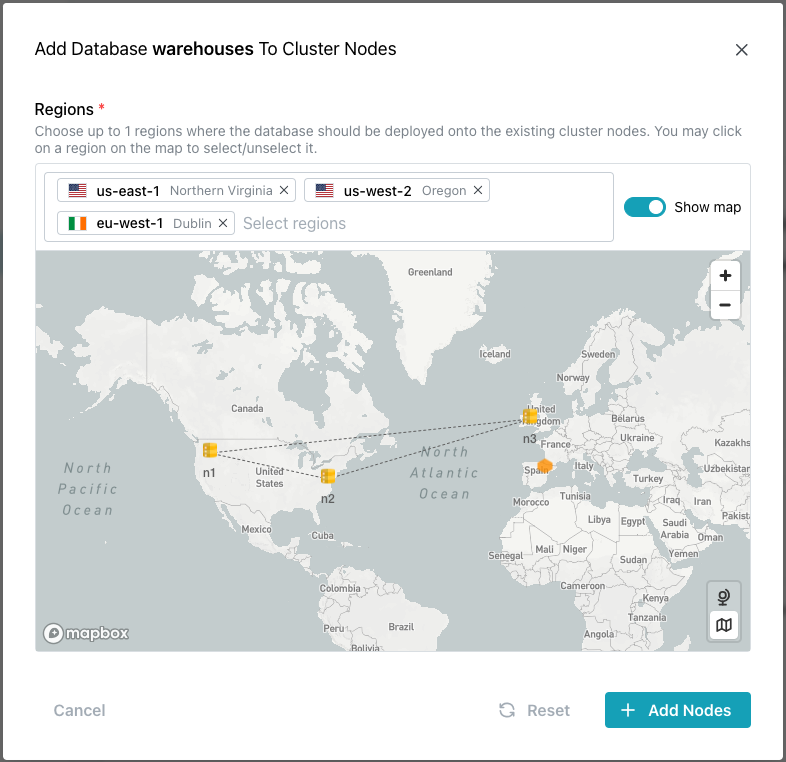
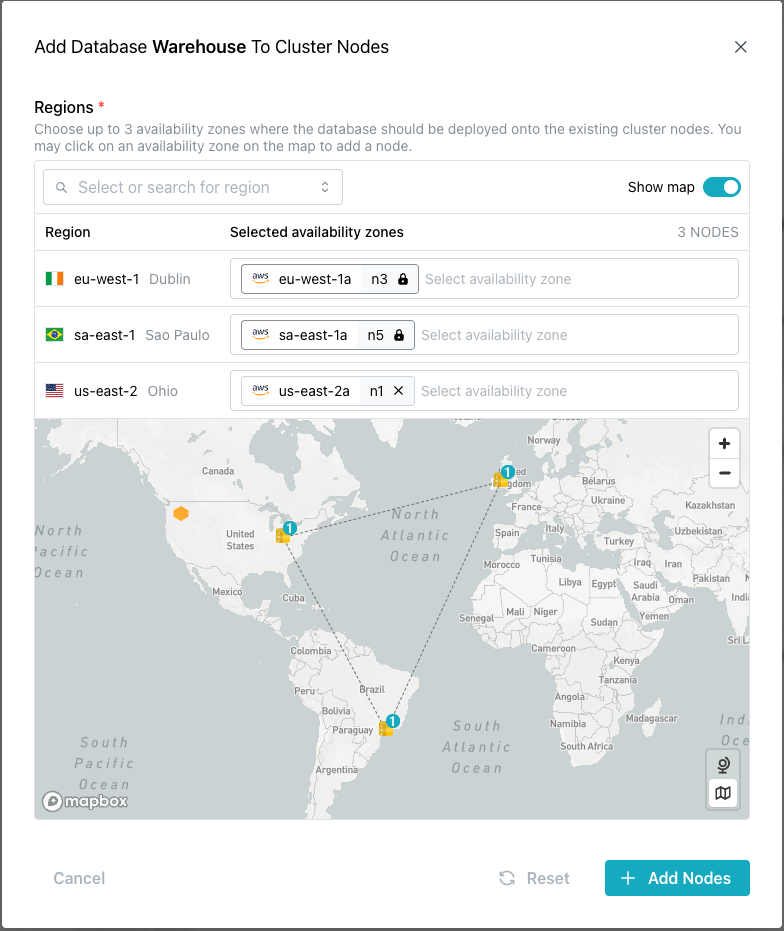
Updates to Actions menu selections

diff --git a/docs/cloud/mod_cluster/add.md b/docs/cloud/mod_cluster/add.md
@@ -54,81 +54,29 @@ during the initial cluster creation.
 
 To add a database to a cluster node, select the database name in the
 navigation panel, open the `Actions` menu, and select `Add to Nodes`. Note
-that new cluster node must be 
-[added to the cluster](#adding-a-node-to-a-cluster) before you can add a 
-database to the node. The node to which you are adding the database must
-be a member of the cluster on which the database was created.
+that node must be 
+[an operational member of the cluster](#adding-a-node-to-a-cluster)
+before you can add a database to the node. The node to which you are adding
+the database must be a member of the cluster on which the database was
+created.
 
-When you add a database to a new node, the database is empty. You will
-need to restore existing schemas and data to the database, and if AutoDDL
-is not enabled, start replication on the node. Once replication has been
-re-established, new transactions can be written to the database. To review
-recommended workflows to bring the node up to date with a full dataset
-visit [here](#restoring-data-to-a-database-on-a-new-cluster-node).
+When you add a database to a node, Cloud uses 
+[Spock's Zodan functionality](https://docs.pgedge.com/spock-v5/v5-0-6/modify/zodan/)
+to copy the existing data to the new node. Automatic DDL replication is
+enabled as the node joins the cluster.
 
 ![Adding a database](../images/actions_database.png)
 
-The `Add Database... to Cluster Nodes` dialog opens.
+The `Add Database... to Cluster Nodes` dialog opens.a
 
 ![Cluster Overview](../images/add_db_to_nodes.png)
 
-On the map, nodes labeled with a node name (like `n1`, `n2`, or `n3`)
-and connected by a dotted line are currently replicating the selected
-database between themselves. Nodes that are not attached to other nodes by
-a dotted line, or are unlabeled are not part of the cluster for the
-selected database. To select a node(s) for updating, click in the `Select
-regions` field to access a list of available nodes on which the database
-does not currently reside, or click a node(s) on the map.
+On the map, nodes connected by a dotted line are currently replicating
+the selected database amongst themselves. Nodes that are not attached to
+other nodes by a dotted line are currently not hosting the selected database.
+To select a node(s) for updating, click in the `Regions` field to access a
+list of available nodes on which the database does not currently reside, or
+click a node(s) on the map.
 
 After selecting the node(s), click the `Add Nodes` button to start the
 modification process.
-
-When you add a database to a new cluster node, the process places the new
-node into the `Nearest Node` DNS. If your application uses this
-connection, you should plan downtime accordingly until data can be aligned
-and restored on all nodes, or you should set your application to only read
-data from a pre-existing node during the data restoration process.
-
-
-## Restoring Data to a Database on a New Cluster Node
-
-Adding a database to a new cluster node does not manage the transfer of
-existing data to the database. The new node is added to the replication
-configuration for the database, but you must restore existing data to the
-new database node through a separate workflow.
-
-We recommended that you stop write transactions to the database while you
-are restoring data to align the nodes across the cluster. If write
-transactions are enabled, it is possible for data to not reach other nodes
-depending on the restoration strategy. This must currently be enforced by
-your application.
-
-The steps you use to restore data to your new database/node combination
-will depend on if your nodes are running with AutoDDL enabled.
-
-* If your nodes are running with AutoDDL enabled, you can use the Cloud
-  [Restore Database](https://docs.pgedge.com/cloud/backup/restore) option
-  to restore a data backup from another node. You can perform a restore
-  specifically to just the new node, or restore to all nodes to ensure a
-  complete/refreshed alignment of datasets. Your chosen strategy should
-  take into account your spock subscription and data residency
-  requirements.
-
-If you are using the graphical `Restore Database` interface to restore
-your database, the existing nodes will restart during the setup process for
-the new node in order to re-establish replication. This will cause a brief
-downtime on these nodes.
-
-* If your nodes are not running with AutoDDL enabled, you can restore the
-  data manually with an external tool [like pg_dump](
-  https://www.postgresql.org/docs/current/app-pgdump.html).
-  Then, you'll need to use the Cloud [Start Replication](
-  https://docs.pgedge.com/cloud/database/manage_db#the-start-replication-pane)
-  button to align the new node with the existing database nodes.
-
-!!! note
-
-    If you are using pgBackRest to restore data from another node in your
-    Backup Stores, pgBackRest will re-establish Spock replication sets
-    using the restored data, automatically re-establishing replication as
-    it was at the time of the backup.

diff --git a/docs/cloud/mod_cluster/drop.md b/docs/cloud/mod_cluster/drop.md
@@ -15,17 +15,17 @@ of a cluster in the navigation panel and select `Remove Nodes` from the
 
 ![Remove a Node](../images/actions_cluster.png)
 
-When the `Remove Nodes` dialog opens, click a node on the map or click
-the `X` in an availability zone name in the `Regions` field to remove
-the node from the specified region. To remove the node and reconfigure
+When the `Remove Nodes` dialog opens, click a node(s) on the map or click
+the `X` in an availability zone name in the `Regions` section to remove
+a node from the specified region. To remove the node and reconfigure
 the cluster, enter the cluster name in the confirmation field and click
 `Apply Changes`.
 
 ![Remove a Node](../images/remove_nodes.png)
 
-You may only remove a single node at a time. When working with a
-multi-node cluster with replication enabled, the cluster cannot drop
-below two nodes.
+When working with a multi-node cluster with replication enabled, the cluster
+cannot drop below two nodes.
+
 
 ## Removing a Database from a Node
 
@@ -68,16 +68,17 @@ the upper-right corner and choose `Delete Cluster`.
 
 ![Deleting a Cluster](../images/delete_cluster.png)
 
-The `Delete Cluster` dialog prompts you to confirm the deletion. Enter
-the cluster name and press `Delete Cluster` to confirm.
+If the cluster contains databases, use the `Force Delete` slider to confirm
+that you wish to delete the cluster, and all cluster resources currently
+deployed; this will remove all databases, DNS records, and CloudWatch alarms.
+
+To delete the cluster, enter the cluster name to confirm and press `Delete 
+Cluster` (or `Force Delete Cluster`) to confirm.
 
 ![Confirm deleting a cluster](../images/confirm_delete_cluster.png)
 
 !!! Note
 
-    If the cluster has databases, you must
-    [delete the databases](https://docs.pgedge.com/cloud/mod_cluster/drop#deleting-a-database)
-    before deleting the cluster. A popup alerts you if you attempt to
-    delete a cluster that still hosts databases.
+    A popup alerts you if you attempt to delete a cluster that still hosts databases without selecting the `Force Delete` option.
 
 ![Cluster has databases](../images/cluster_has_databases.png)
